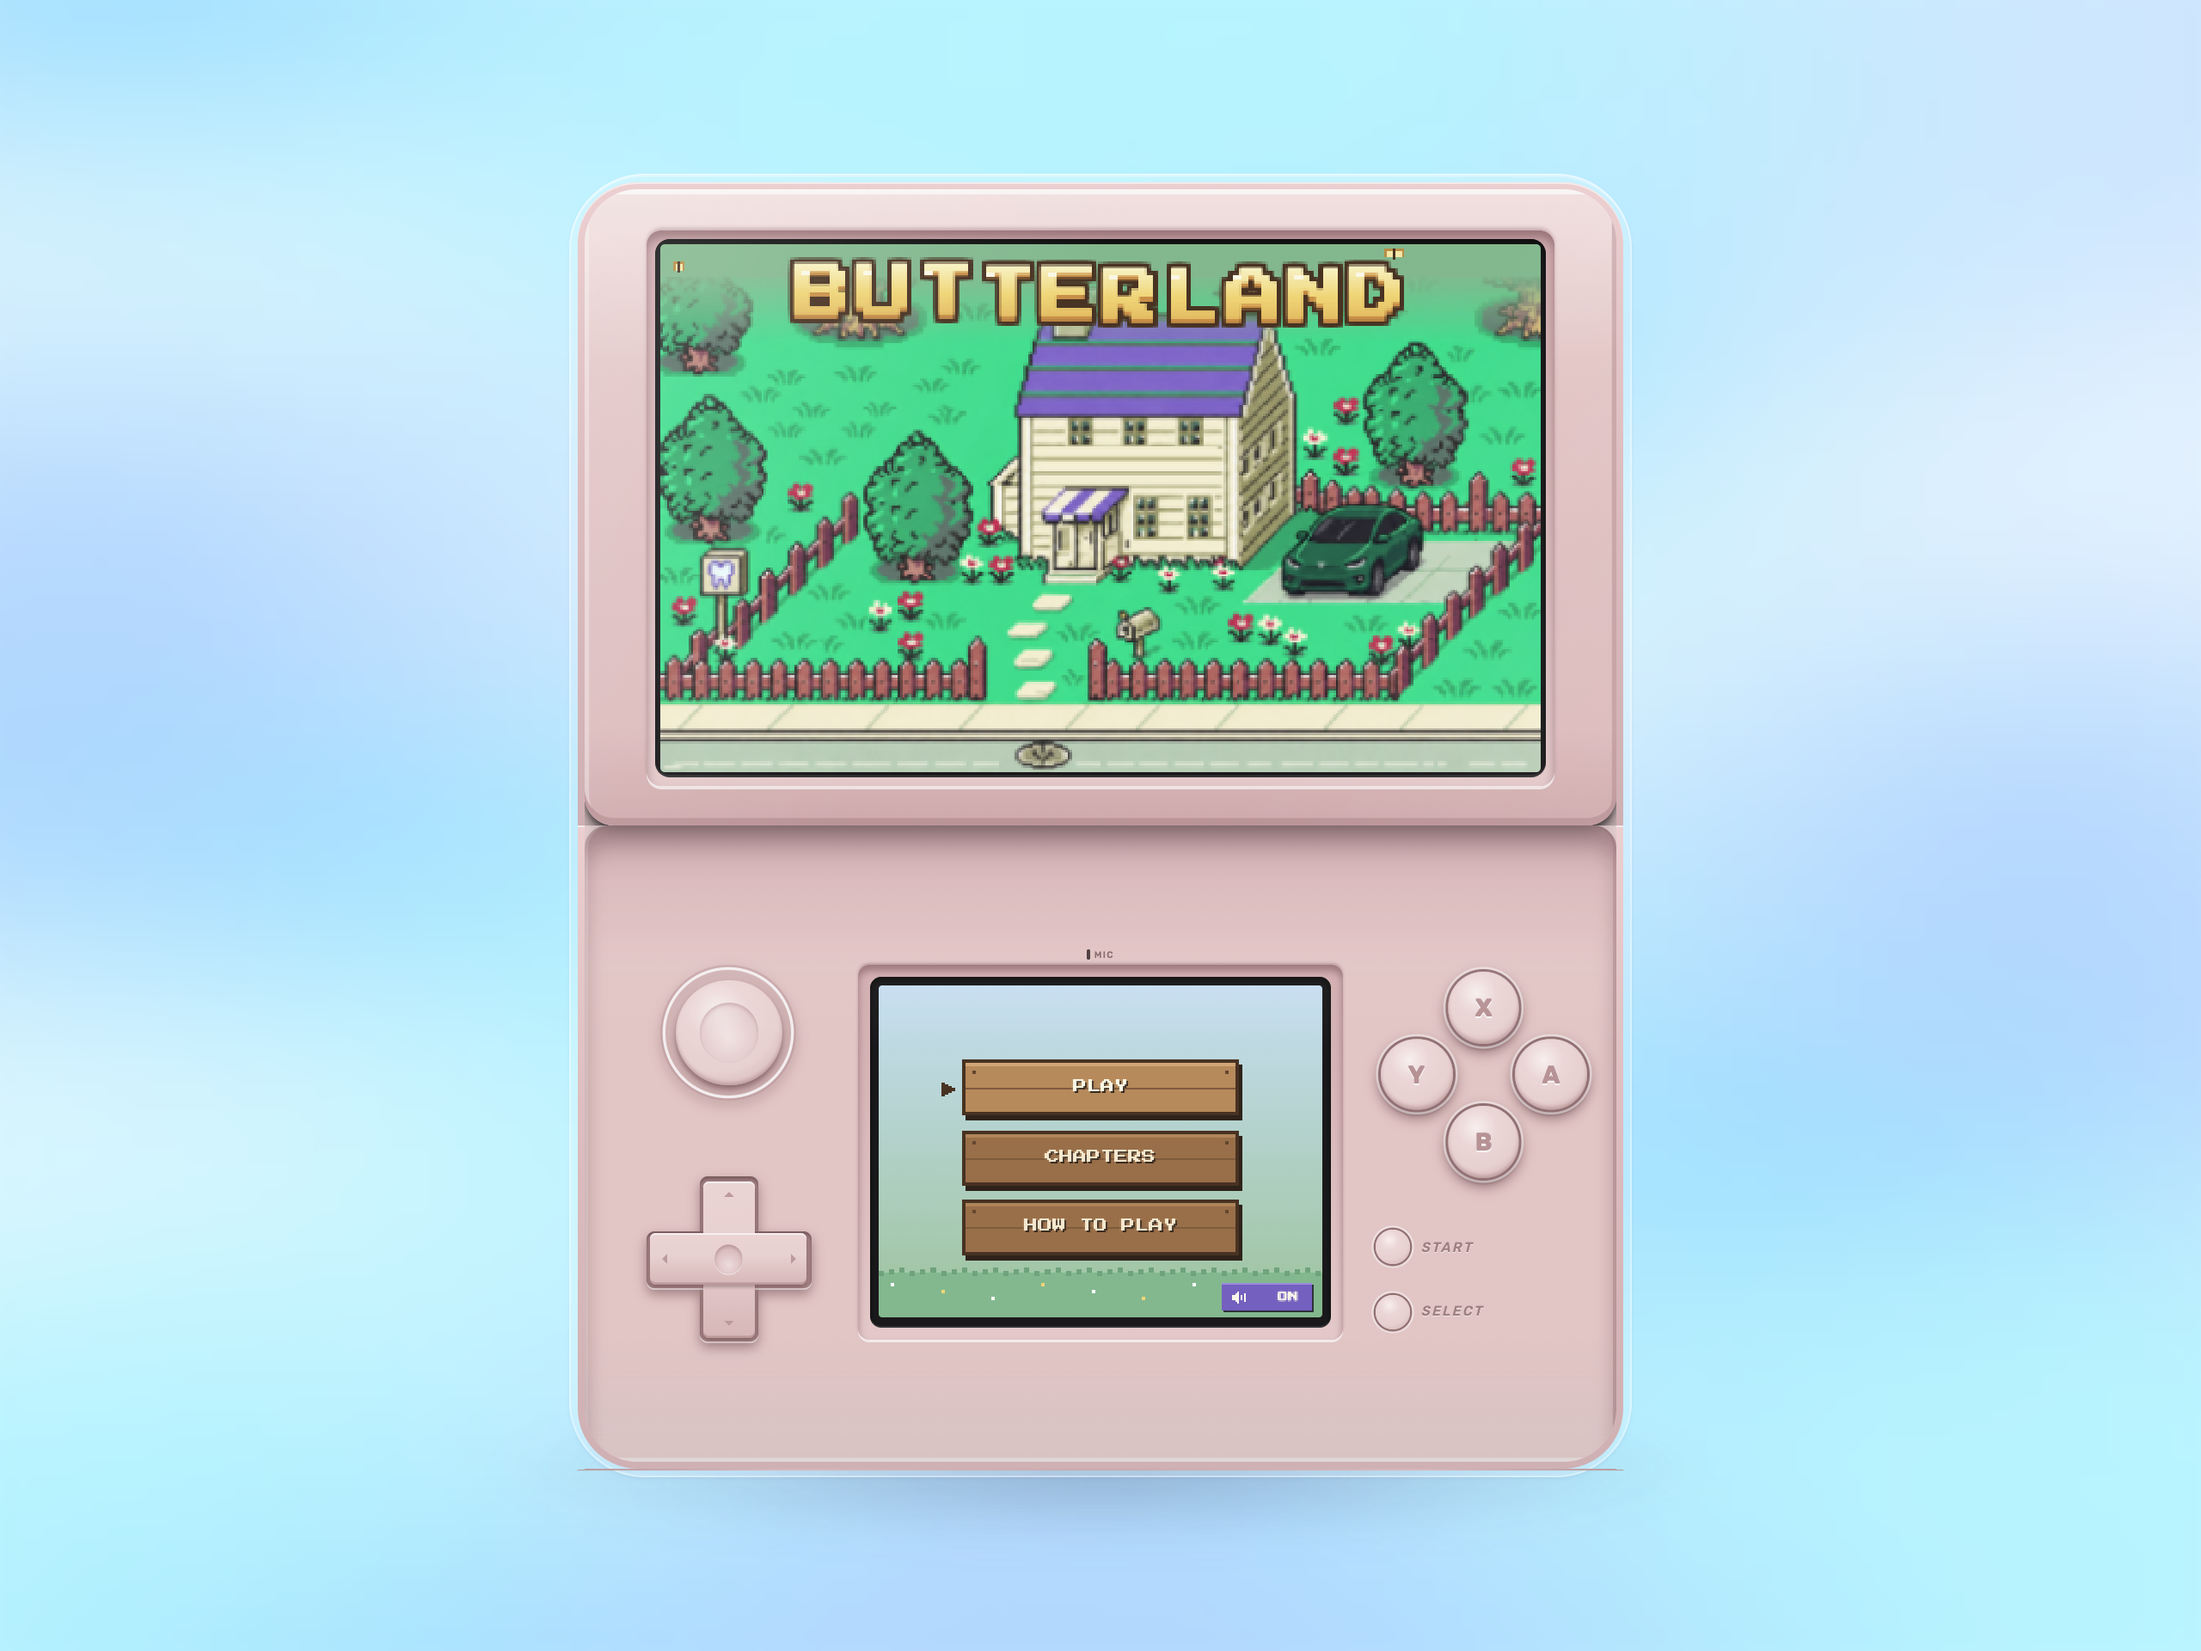
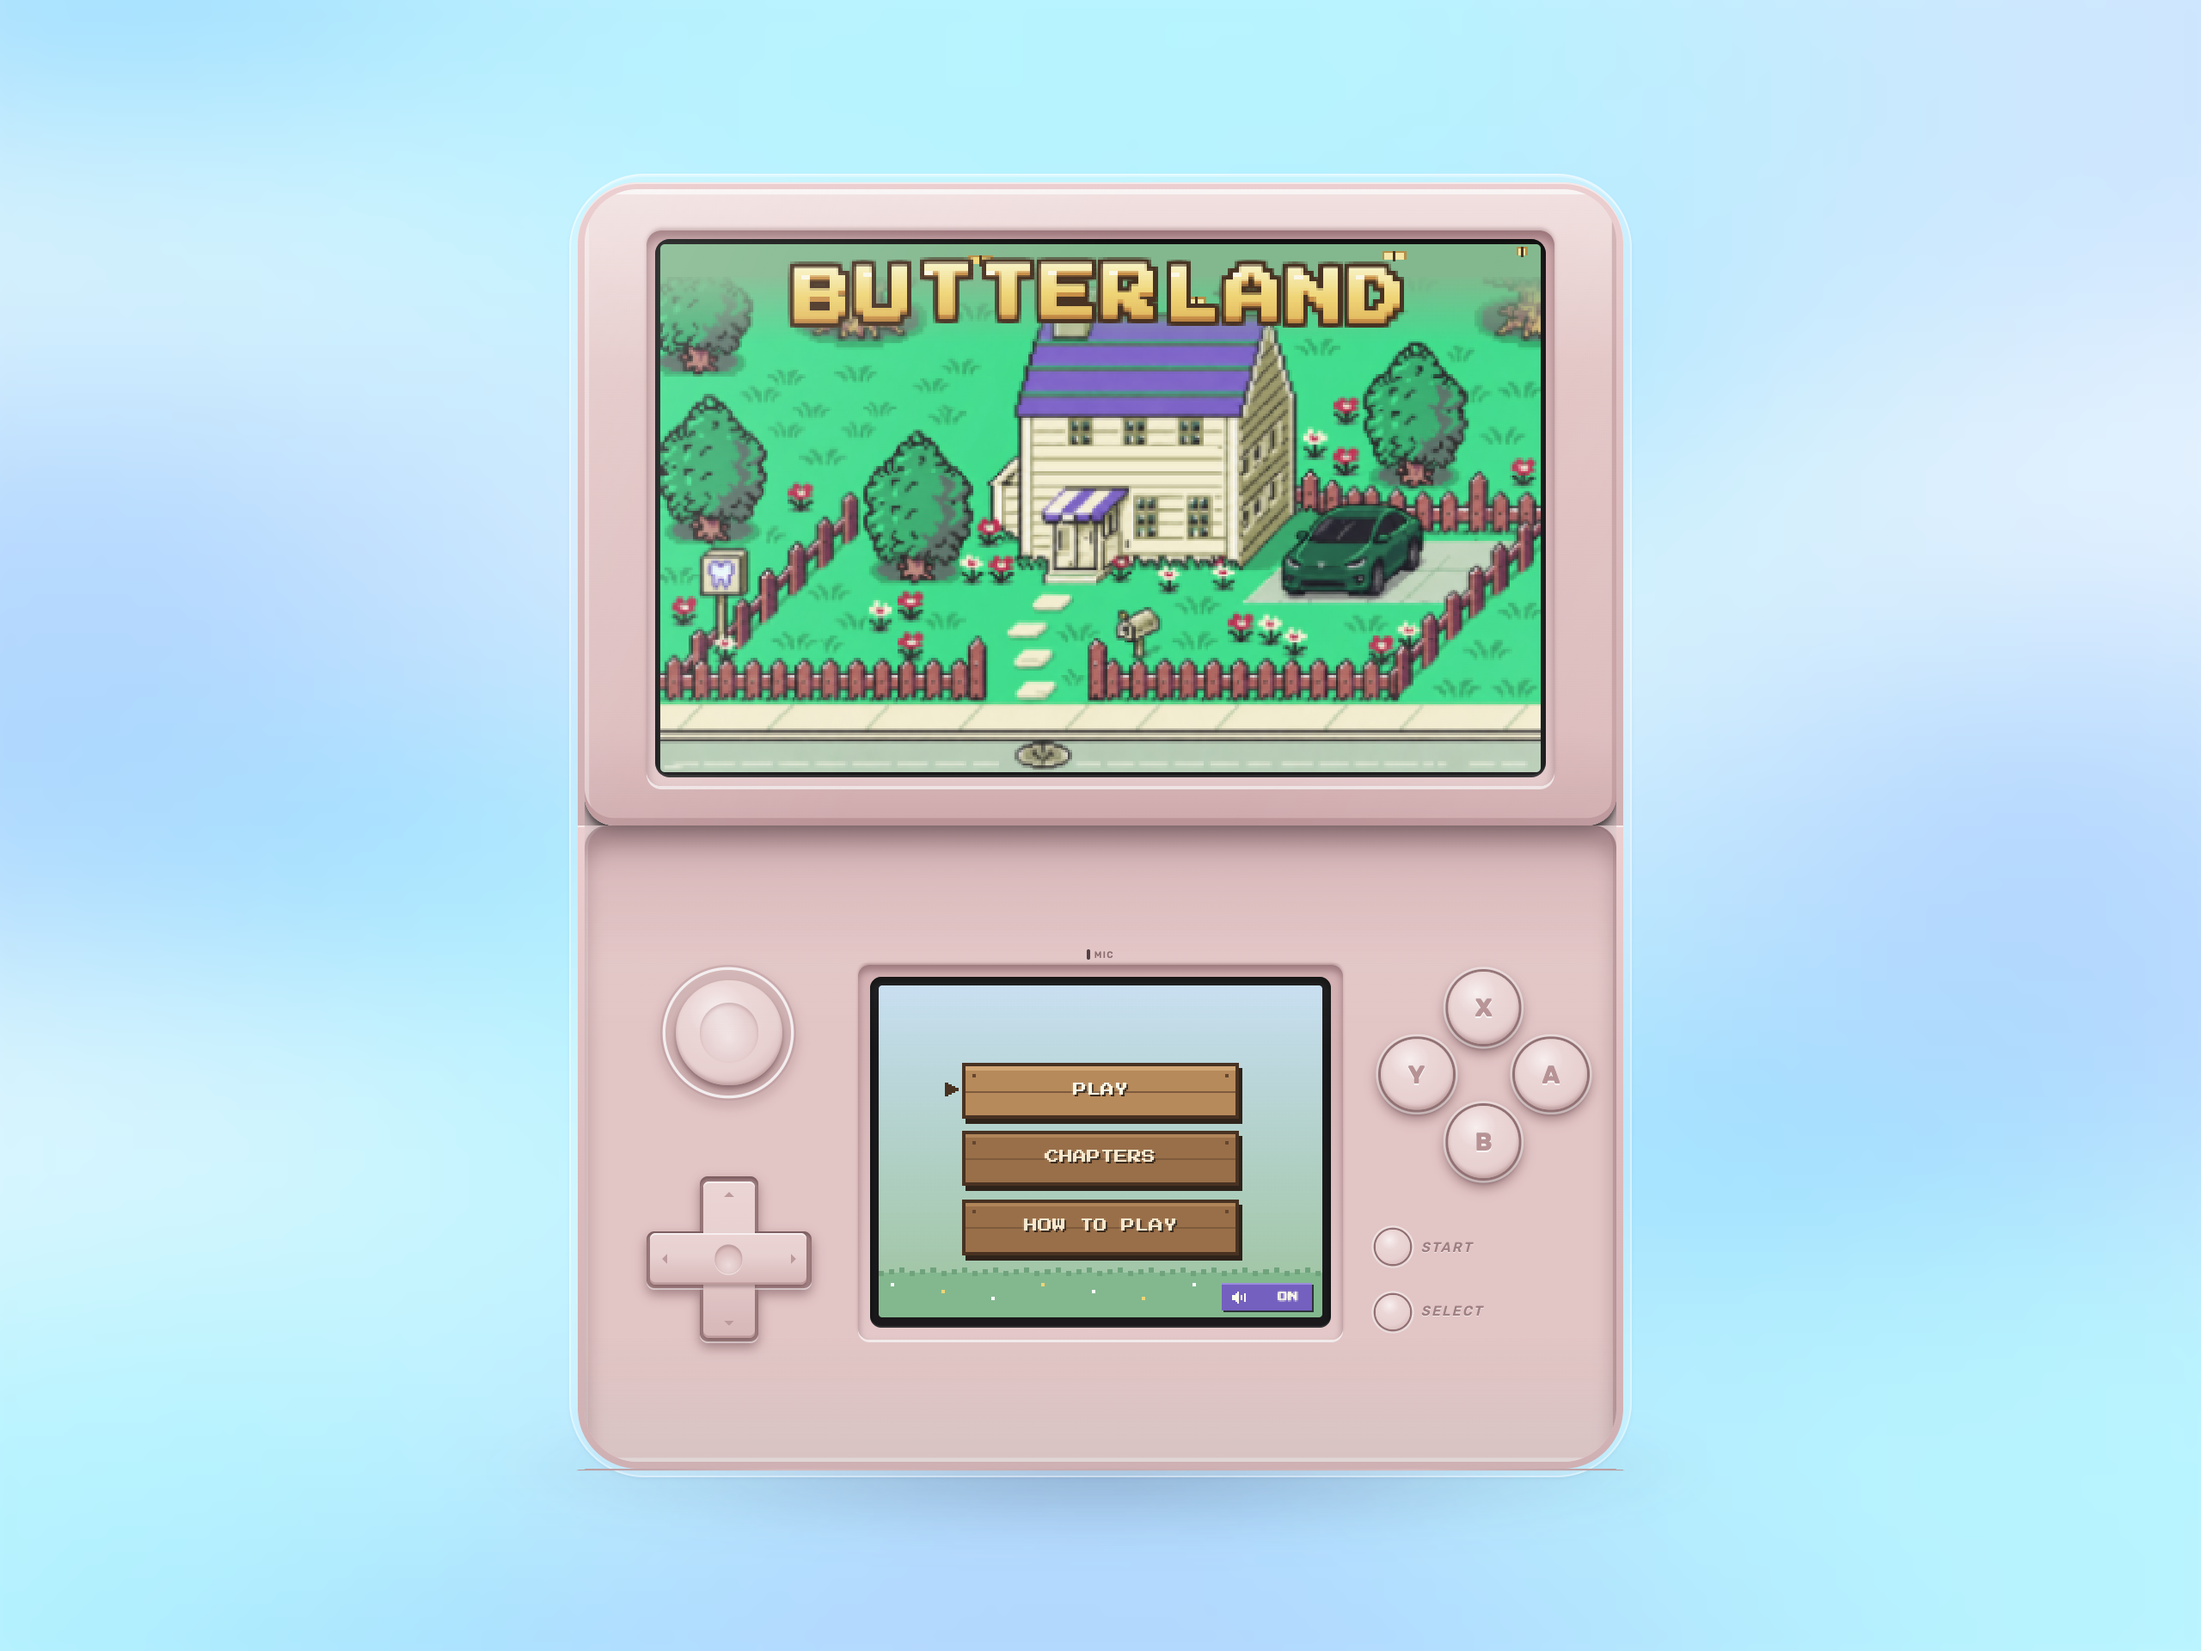
Mockup: keep the game's hinge strip hidden after reloads
The fold fix is now checked every frame instead of once on load, so the dark
bar and L / R nubs never come back between the screens.

Changed region(s): [[0.4375, 0.1562, 0.6562, 0.2188], [0.4375, 0.625, 0.5625, 0.6875], [0.3438, 0.1562, 0.4062, 0.2188]]

diff --git a/tools/mockup/duo-angle.html b/tools/mockup/duo-angle.html
@@ -78,9 +78,16 @@ addEventListener("resize",fit);fit();
 
 // The game draws its own hinge strip (L / R and a dark bar) across the fold; hide it in both
 // copies, and paint the page behind the panels shell pink so their rounded corners blend in.
-for(const f of [game,mirror])f.addEventListener("load",()=>{
-  try{const st=f.contentDocument.createElement("style");st.textContent="#hinge{display:none!important}html,body,#stage,#ds{background:#efc9cb!important}";f.contentDocument.head.append(st)}catch(e){}
-});
+// Checked every frame, so it also holds if a page reloads.
+function cleanFold(f){
+  try{
+    const doc=f.contentDocument;
+    if(!doc||!doc.head||doc.getElementById("mockup-fold"))return;
+    const st=doc.createElement("style");st.id="mockup-fold";
+    st.textContent="#hinge{display:none!important}html,body,#stage,#ds{background:#efc9cb!important}";
+    doc.head.append(st);
+  }catch(e){}
+}
 
 // The top screen shows the playable game's top canvas, drawn over a quiet copy of the page.
 let live=null,copy=null;
@@ -97,6 +104,7 @@ function hook(){
   }catch(e){return false}
 }
 function loop(){
+  cleanFold(game);cleanFold(mirror);
   if(!copy){hook()}
   else if(live){
     if(copy.width!==live.width||copy.height!==live.height){copy.width=live.width;copy.height=live.height}
